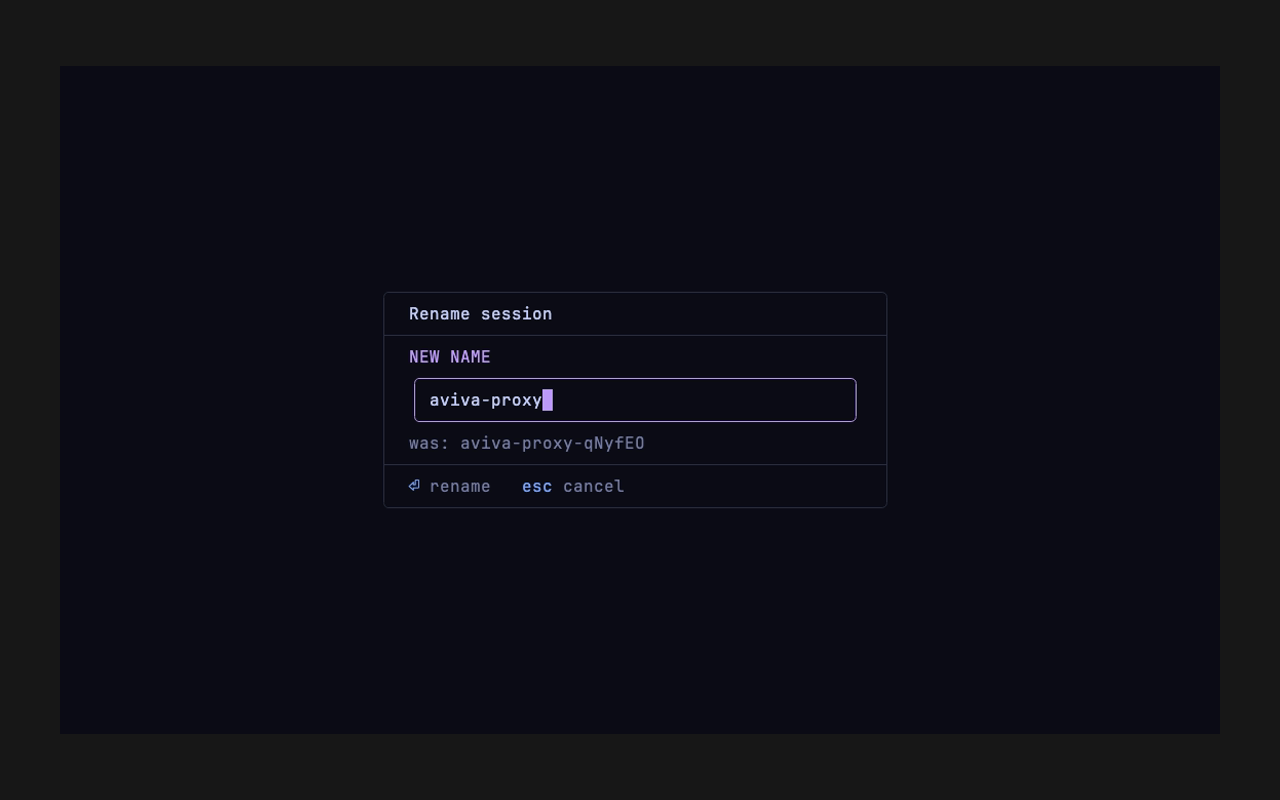
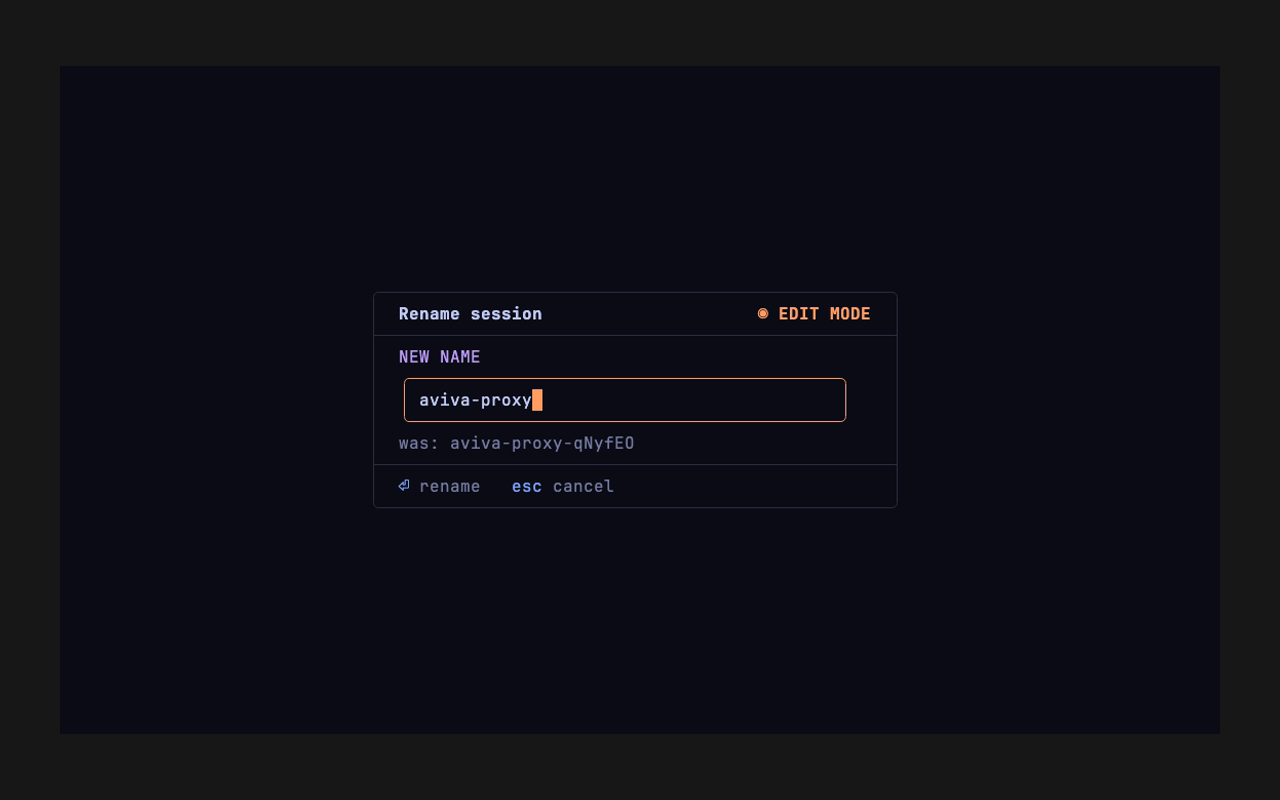
impl(spectrum-tui-design): Tspectrum-tui-design-3-10 — rename modal via shared input-box helper (orange-on-edit)
Route the rename input through the shared renderInputBox helper (3-9) in the
always-editing accent.orange rounded state, and add the orange ◉ EDIT MODE badge
to the header corner — the rename modal now follows the unified §8.4/§13.1 input
grammar, consistent with the edit modal. Removes the bespoke violet box drawing.
DRY-extracted a shared renderHeaderWithBadge from the edit modal (edit-modal render
byte-for-byte unchanged). Render-only: the rename flow logic (updateRenameModal /
renameAndRefresh / textinput) is untouched; parity tests green. Capture verified
against rename-modal-mv.png. Completes Phase 3.

diff --git a/internal/tui/rename_modal_test.go b/internal/tui/rename_modal_test.go
@@ -27,6 +27,32 @@ func newRenameInput(value string) textinput.Model {
 	return ti
 }
 
+// TestRenameModal_ByteExact pins the full ANSI-stripped layout of the §8.4 MV
+// rename modal: the joined panel frame, the `Rename session` title with the
+// right-aligned `◉ EDIT MODE` badge, the NEW NAME label, the rounded (always-orange)
+// input box drawn by the shared renderInputBox helper with the live cursor cell, the
+// `was:` context line, and the `⏎ rename   esc cancel` footer. The colour-role
+// assertions live in the other tests; this oracle guards the STRUCTURE byte-for-byte
+// so a layout regression (a box overrunning the frame, a missing badge, a wrong
+// glyph) fails loudly. The render is deterministic once ANSI is stripped.
+func TestRenameModal_ByteExact(t *testing.T) {
+	got := ansi.Strip(renderRenameModalContent(newRenameInput("aviva-proxy"), "aviva-proxy-qNyfEO", theme.Dark, false))
+	want := "╭──────────────────────────────────────────────────╮\n" +
+		"│  Rename session                     ◉ EDIT MODE  │\n" +
+		"├──────────────────────────────────────────────────┤\n" +
+		"│  NEW NAME                                        │\n" +
+		"│  ╭──────────────────────────────────────────╮    │\n" +
+		"│  │ aviva-proxy                              │    │\n" +
+		"│  ╰──────────────────────────────────────────╯    │\n" +
+		"│  was: aviva-proxy-qNyfEO                         │\n" +
+		"├──────────────────────────────────────────────────┤\n" +
+		"│  ⏎ rename   esc cancel                           │\n" +
+		"╰──────────────────────────────────────────────────╯"
+	if got != want {
+		t.Errorf("render mismatch\n got:\n%s\nwant:\n%s", got, want)
+	}
+}
+
 // TestRenameModal_Header asserts the §8.4 header `Rename session` rendered in
 // text.primary (the non-destructive modal title colour).
 func TestRenameModal_Header(t *testing.T) {
@@ -37,6 +63,60 @@ func TestRenameModal_Header(t *testing.T) {
 		}
 		if seq := tokenFgSeq(t, theme.MV.TextPrimary, mode); !strings.Contains(content, seq) {
 			t.Errorf("[%v] header 'Rename session' must render in text.primary SGR core %q; missing in:\n%s", mode, seq, content)
+		}
+	}
+}
+
+// TestRenameModal_EditModeBadge asserts the always-on `◉ EDIT MODE` badge in the
+// header's right corner, rendered in accent.orange — the rename input is always
+// editing (§13.1), so the badge is always present (unlike the edit modal, which
+// gates it on editMode).
+func TestRenameModal_EditModeBadge(t *testing.T) {
+	for _, mode := range []theme.Mode{theme.Dark, theme.Light} {
+		content := renderRenameModalContent(newRenameInput("aviva-proxy"), "aviva-proxy-qNyfEO", mode, false)
+		if !renameModalContains(content, "◉ EDIT MODE") {
+			t.Errorf("[%v] header must show the `◉ EDIT MODE` badge; got:\n%s", mode, content)
+		}
+		seg := labelSegment(t, content, "EDIT MODE")
+		if seq := tokenFgSeq(t, theme.MV.AccentOrange, mode); !strings.Contains(seg, seq) {
+			t.Errorf("[%v] `◉ EDIT MODE` badge must render in accent.orange SGR core %q; seg=%q", mode, seq, seg)
+		}
+	}
+}
+
+// TestRenameModal_EditModeBadgeRightAligned asserts the `◉ EDIT MODE` badge renders
+// in the header's RIGHT corner (right-aligned), not inline after the title: the
+// badge text must be the trailing glyph run on the header line and a wide flexible
+// spacer must separate it from the `Rename session` title (so it sits in the far
+// corner). Mirrors the edit modal's badge right-align assertion.
+func TestRenameModal_EditModeBadgeRightAligned(t *testing.T) {
+	for _, mode := range []theme.Mode{theme.Dark, theme.Light} {
+		content := renderRenameModalContent(newRenameInput("aviva-proxy"), "aviva-proxy-qNyfEO", mode, false)
+		var headerLine string
+		for _, line := range strings.Split(ansi.Strip(content), "\n") {
+			if strings.Contains(line, "Rename session") {
+				headerLine = line
+				break
+			}
+		}
+		if headerLine == "" {
+			t.Fatalf("[%v] header line not found; content:\n%s", mode, ansi.Strip(content))
+		}
+		trimmed := strings.TrimRight(headerLine, " │")
+		if !strings.HasSuffix(trimmed, "◉ EDIT MODE") {
+			t.Errorf("[%v] `◉ EDIT MODE` must be right-aligned (trailing) in the header; got line:\n%q", mode, headerLine)
+		}
+		titleIdx := strings.Index(headerLine, "Rename session")
+		badgeIdx := strings.Index(headerLine, "◉ EDIT MODE")
+		if titleIdx < 0 || badgeIdx < 0 || badgeIdx <= titleIdx {
+			t.Fatalf("[%v] header must read title then far-right badge; got:\n%q", mode, headerLine)
+		}
+		gap := badgeIdx - (titleIdx + len("Rename session"))
+		if gap < 10 {
+			t.Errorf("[%v] badge must be far-right with a wide flexible gap after the title (gap=%d); got:\n%q", mode, gap, headerLine)
+		}
+		if badgeIdx < len(headerLine)/2 {
+			t.Errorf("[%v] badge must sit in the right half of the header (corner), idx=%d lineLen=%d; got:\n%q", mode, badgeIdx, len(headerLine), headerLine)
 		}
 	}
 }
@@ -70,28 +150,30 @@ func TestRenameModal_InputValue(t *testing.T) {
 	}
 }
 
-// TestRenameModal_VioletBlockCursor asserts the §13.1 input cursor is a violet
-// block: the cursor renders Reverse over an accent.violet foreground (so the block
-// fills violet), making the input the live editing element.
-func TestRenameModal_VioletBlockCursor(t *testing.T) {
+// TestRenameModal_OrangeBlockCursor asserts the §13.1 input cursor is an orange
+// block: the input is always editing, so the cursor renders Reverse over an
+// accent.orange foreground (so the block fills orange), making the input the live
+// editing element.
+func TestRenameModal_OrangeBlockCursor(t *testing.T) {
 	for _, mode := range []theme.Mode{theme.Dark, theme.Light} {
 		content := renderRenameModalContent(newRenameInput("aviva-proxy"), "aviva-proxy-qNyfEO", mode, false)
 		// The bubbles cursor renders its block via SGR 7 (reverse) over the cursor
-		// colour foreground — assert both the reverse attr and the violet hue are
-		// present so the block cursor is violet, not the default.
+		// colour foreground — assert both the reverse attr and the orange hue are
+		// present so the block cursor is orange, not the default.
 		if !strings.Contains(content, "\x1b[7m") && !strings.Contains(content, ";7m") && !strings.Contains(content, "[7;") {
 			t.Errorf("[%v] input cursor must be a reverse block (SGR 7); got:\n%s", mode, content)
 		}
-		if seq := tokenFgSeq(t, theme.MV.AccentViolet, mode); !strings.Contains(content, seq) {
-			t.Errorf("[%v] block cursor must carry accent.violet SGR core %q; missing in:\n%s", mode, seq, content)
+		if seq := tokenFgSeq(t, theme.MV.AccentOrange, mode); !strings.Contains(content, seq) {
+			t.Errorf("[%v] block cursor must carry accent.orange SGR core %q; missing in:\n%s", mode, seq, content)
 		}
 	}
 }
 
-// TestRenameModal_VioletInputBoxOutline asserts the input value sits inside a
-// border-defined box whose outline is accent.violet (§8.1: transparent fill, no
-// recessed-input token — the outline is the only treatment).
-func TestRenameModal_VioletInputBoxOutline(t *testing.T) {
+// TestRenameModal_OrangeInputBoxOutline asserts the input value sits inside a
+// border-defined box whose outline is accent.orange — the always-editing state of
+// the shared renderInputBox helper (§13.1: transparent fill, no recessed-input
+// token — the outline is the only treatment).
+func TestRenameModal_OrangeInputBoxOutline(t *testing.T) {
 	for _, mode := range []theme.Mode{theme.Dark, theme.Light} {
 		content := renderRenameModalContent(newRenameInput("aviva-proxy"), "aviva-proxy-qNyfEO", mode, false)
 		// The input box draws its own rounded outline rows (corners + sides), distinct
@@ -119,9 +201,9 @@ func TestRenameModal_VioletInputBoxOutline(t *testing.T) {
 		if !strings.ContainsAny(bottom, "╰─╯") {
 			t.Errorf("[%v] row below the input value must be the box bottom edge (rounded outline); got %q", mode, bottom)
 		}
-		// The box outline is accent.violet.
-		if seq := tokenFgSeq(t, theme.MV.AccentViolet, mode); !strings.Contains(content, seq) {
-			t.Errorf("[%v] input box outline must render in accent.violet SGR core %q; missing in:\n%s", mode, seq, content)
+		// The box outline is accent.orange (the editing state of the shared helper).
+		if seq := tokenFgSeq(t, theme.MV.AccentOrange, mode); !strings.Contains(content, seq) {
+			t.Errorf("[%v] input box outline must render in accent.orange SGR core %q; missing in:\n%s", mode, seq, content)
 		}
 	}
 }
@@ -240,8 +322,9 @@ func TestRenameModal_BodyLayout(t *testing.T) {
 // is painted — every state reads from structure, not colour.
 func TestRenameModal_Colourless(t *testing.T) {
 	content := renderRenameModalContent(newRenameInput("aviva-proxy"), "aviva-proxy-qNyfEO", theme.Dark, true)
-	// The copy + structure survive.
-	for _, frag := range []string{"Rename session", "NEW NAME", "aviva-proxy", "was: aviva-proxy-qNyfEO", "⏎ rename", "esc cancel"} {
+	// The copy + structure survive (the `◉ EDIT MODE` badge text is part of the
+	// structural signal — state never colour-only, §2.2).
+	for _, frag := range []string{"Rename session", "◉ EDIT MODE", "NEW NAME", "aviva-proxy", "was: aviva-proxy-qNyfEO", "⏎ rename", "esc cancel"} {
 		if !renameModalContains(content, frag) {
 			t.Errorf("colourless rename modal must keep %q; got:\n%s", frag, content)
 		}
@@ -250,9 +333,9 @@ func TestRenameModal_Colourless(t *testing.T) {
 	if !strings.ContainsAny(content, "╭╮╰╯├┤") {
 		t.Errorf("colourless rename modal must keep the frame/box glyphs; got:\n%s", content)
 	}
-	// No role hues painted: not accent.violet, accent.blue, text.detail, or
-	// text.primary.
-	for _, tok := range []theme.Token{theme.MV.AccentViolet, theme.MV.AccentBlue, theme.MV.TextDetail, theme.MV.TextPrimary, theme.MV.BorderSeparator} {
+	// No role hues painted: not accent.orange, accent.violet, accent.blue,
+	// text.detail, or text.primary.
+	for _, tok := range []theme.Token{theme.MV.AccentOrange, theme.MV.AccentViolet, theme.MV.AccentBlue, theme.MV.TextDetail, theme.MV.TextPrimary, theme.MV.BorderSeparator} {
 		if seq := tokenFgSeq(t, tok, theme.Dark); strings.Contains(content, seq) {
 			t.Errorf("colourless rename modal must NOT paint the %s hue %q", tok.Name, seq)
 		}

diff --git a/internal/tui/rename_modal.go b/internal/tui/rename_modal.go
@@ -1,8 +1,6 @@
 package tui
 
 import (
-	"strings"
-
 	"charm.land/bubbles/v2/textinput"
 	"charm.land/lipgloss/v2"
 	"github.com/charmbracelet/x/ansi"
@@ -16,12 +14,15 @@ import (
 // (header / body / footer) separated by two joined ├───┤ dividers, all in
 // border.separator.
 //
-// The body's input is a SEPARATE nested element: a thin rounded box whose outline is
-// accent.violet (the §13.1 focused colour — this single input is always focused) over
-// a TRANSPARENT interior (§8.1, no fill). The value renders in text.primary with a
-// violet block cursor; the violet outline + cursor are the focus signal, distinct from
-// the panel's border.separator frame. (No fill: a flush fill can't coexist with a thin
-// rounded outline in a terminal — see renameModalInputBoxRows.)
+// The body's input is a SEPARATE nested element drawn by the shared renderInputBox
+// helper (§13.1) in its ALWAYS-EDITING variant: a thin rounded box whose outline is
+// accent.orange over a TRANSPARENT interior (§8.1, no fill). The rename input is
+// always focused AND always editing — there is no navigate state — so it carries the
+// orange editing treatment (border + live block cursor) and the header shows the
+// `◉ EDIT MODE` badge. The value renders in text.primary with an orange block cursor;
+// the orange outline + cursor + badge are the editing signal, distinct from the
+// panel's border.separator frame. (No fill: a flush fill can't coexist with a thin
+// rounded outline in a terminal — see renderInputBox.)
 
 const (
 	// renameTitle is the header title text (text.primary), the §8.4 `Rename session`.
@@ -55,17 +56,17 @@ const (
 // renderRenameModalContent composes the §8.4 rename-session modal for the given
 // input + old name. Three compartments drawn by the shared joined panel:
 //
-//	header:  Rename session              (text.primary)
+//	header:  Rename session              ◉ EDIT MODE   (title text.primary, badge accent.orange right-aligned)
 //	body:    NEW NAME                     (accent.violet field label)
-//	         ╭──────────────────────╮     (violet input-box outline)
-//	         │ <value>▌             │     (value text.primary, violet block cursor)
+//	         ╭──────────────────────╮     (orange input-box outline)
+//	         │ <value>▌             │     (value text.primary, orange block cursor)
 //	         ╰──────────────────────╯
 //	         was: <old name>             (text.detail, truncated to fit)
 //	footer:  ⏎ rename   esc cancel        (glyphs accent.blue, labels text.detail)
 //
 // Vertical spacing is terminal-native FLUSH (the help/kill modal convention): every
 // body row is flush to its dividers; the input box's three rows are its own outline,
-// not blank padding. The input is styled here (value text.primary, violet block
+// not blank padding. The input is styled here (value text.primary, orange block
 // cursor) — its input SEMANTICS are untouched.
 func renderRenameModalContent(input textinput.Model, oldName string, mode theme.Mode, colourless bool) string {
 	header := []string{renameModalHeaderRow(mode, colourless)}
@@ -74,10 +75,24 @@ func renderRenameModalContent(input textinput.Model, oldName string, mode theme.
 	return renderJoinedPanel([][]string{header, body, footer}, mode, colourless)
 }
 
-// renameModalHeaderRow renders `Rename session` in text.primary (the
-// non-destructive modal-title colour — §8.1).
+// renameModalHeaderRow renders `Rename session` (text.primary, the non-destructive
+// modal-title colour — §8.1) left-aligned, with the always-on `◉ EDIT MODE` badge
+// (accent.orange) right-aligned in the far corner — the rename input is always
+// editing, so the badge is always shown (via the shared renderHeaderWithBadge,
+// matching the edit modal's right-align technique). The header is pinned to the
+// panel content width so the badge sits in the panel's right corner.
 func renameModalHeaderRow(mode theme.Mode, colourless bool) string {
-	return headerStyle(theme.MV.TextPrimary, mode, colourless).Render(renameTitle)
+	title := headerStyle(theme.MV.TextPrimary, mode, colourless).Bold(true).Render(renameTitle)
+	return renderHeaderWithBadge(title, renamePanelContentWidth(), true, mode, colourless)
+}
+
+// renamePanelContentWidth returns the rename modal's panel content width — the span
+// the header row is padded to so the `◉ EDIT MODE` badge right-aligns to the panel's
+// content edge. The input box (renameInputInnerWidth + its two side borders) is the
+// widest body element and anchors the panel width (the header title + badge and the
+// footer are both narrower), so the header pinned to this width matches the box edge.
+func renamePanelContentWidth() int {
+	return renameInputInnerWidth + 2
 }
 
 // renameModalBodyRows builds the body compartment rows: the NEW NAME label, the
@@ -96,42 +111,31 @@ func renameModalLabelRow(mode theme.Mode, colourless bool) string {
 	return headerStyle(theme.MV.AccentViolet, mode, colourless).Render(renameFieldLabel)
 }
 
-// renameModalInputBoxRows renders the border-defined input box: a thin ROUNDED
-// outline in accent.violet over a TRANSPARENT interior — no fill (§8.1). The value
-// renders in text.primary with a violet block cursor; the violet outline + cursor are
-// the focus signal (§13.1 — a single-input modal's input is always focused, so the
-// outline is always accent.violet; an unfocused field would be border.separator grey).
-//
-// No fill, by design: a flush fill cannot coexist with a thin rounded outline in a
-// terminal — a border glyph owns a full cell with one background, so any fill either
-// leaves a half-cell gap inside the line or bleeds half a cell past it (the rounded
-// corner has the same problem). Focus is therefore carried by the outline COLOUR, not
-// a fill — consistent with the edit modal's fields (the Paper mock's recessed input
-// fill was dropped for this reason; see the spec §13.1 amendment + the dropped
-// bg.selection-dimmed token).
+// renameModalInputBoxRows renders the border-defined input box through the SHARED
+// renderInputBox helper in its always-EDITING variant: a thin ROUNDED outline in
+// accent.orange over a TRANSPARENT interior — no fill (§8.1). The value renders in
+// text.primary with an orange block cursor; the orange outline + cursor are the
+// editing signal (§13.1 — the rename input is always editing, so the outline is
+// always accent.orange and the header carries the `◉ EDIT MODE` badge). The
+// textinput's own View (with its live cursor) is the content; the box border is the
+// shared helper's, not a bespoke one.
 //
 // Each rendered line is one body row for renderJoinedPanel (which expects single-line
 // rows). Under NO_COLOR the hues drop to the native fg and the box structure survives.
 func renameModalInputBoxRows(input textinput.Model, mode theme.Mode, colourless bool) []string {
 	value := renameInputView(input, mode, colourless)
-	style := lipgloss.NewStyle().
-		Border(lipgloss.RoundedBorder()).
-		Padding(0, 1).
-		Width(renameInputInnerWidth)
-	if !colourless {
-		style = style.BorderForeground(theme.MV.AccentViolet.ColorFor(mode))
-	}
-	return strings.Split(style.Render(value), "\n")
+	return renderInputBox(value, inputBoxEditing, true, renameInputInnerWidth, mode, colourless)
 }
 
-// renameInputView styles the textinput to the MV palette (value text.primary, violet
+// renameInputView styles the textinput to the MV palette (value text.primary, orange
 // block cursor, NO fill) and returns its rendered View. The input's SEMANTICS are
 // untouched — only its Styles + Prompt change. The inline prompt is cleared so the
 // value renders alone inside the box (the §8.4 `NEW NAME` label carries the field
 // name, so a textinput prompt would double up). Cursor blink is disabled so the
-// captured frame is deterministic (the cursor is always the solid violet block, never
-// a blinked-off gap). Under the NO_COLOR carve-out every hue drops: the value renders
-// on the native fg and the cursor falls back to a bare reverse block.
+// captured frame is deterministic (the cursor is always the solid orange block, never
+// a blinked-off gap). The cursor is accent.orange to match the box's editing state
+// (the §13.1 editing colour). Under the NO_COLOR carve-out every hue drops: the value
+// renders on the native fg and the cursor falls back to a bare reverse block.
 func renameInputView(input textinput.Model, mode theme.Mode, colourless bool) string {
 	input.Prompt = ""
 	styles := input.Styles()
@@ -143,7 +147,7 @@ func renameInputView(input textinput.Model, mode theme.Mode, colourless bool) st
 		return input.View()
 	}
 	styles.Focused.Text = lipgloss.NewStyle().Foreground(theme.MV.TextPrimary.ColorFor(mode))
-	styles.Cursor.Color = theme.MV.AccentViolet.ColorFor(mode)
+	styles.Cursor.Color = theme.MV.AccentOrange.ColorFor(mode)
 	styles.Cursor.Blink = false
 	input.SetStyles(styles)
 	return input.View()

diff --git a/internal/tui/edit_modal.go b/internal/tui/edit_modal.go
@@ -265,21 +265,31 @@ func (m Model) editModalHeaderRow(mode theme.Mode, colourless bool) string {
 	prefix := headerStyle(theme.MV.TextPrimary, mode, colourless).Bold(true).Render(editHeaderPrefix)
 	name := headerStyle(theme.MV.TextDetail, mode, colourless).Render(m.editProject.Name)
 	left := lipgloss.JoinHorizontal(lipgloss.Top, prefix, name)
-	leftWidth := lipgloss.Width(left)
+	return renderHeaderWithBadge(left, m.editPanelContentWidth(), m.editMode == editModeEdit, mode, colourless)
+}
 
-	width := m.editPanelContentWidth()
+// renderHeaderWithBadge lays out a modal header as a FIXED full-content-width row:
+// the pre-rendered left title segment left-aligned, a flexible canvas spacer, then
+// the `◉ EDIT MODE` badge (accent.orange, bold) RIGHT-aligned in the far corner.
+// When showBadge is false the badge's slot is rendered as a same-width blank, so the
+// header (and therefore the whole panel) is byte-for-byte the SAME width whether the
+// badge shows or not. Shared by the edit modal (badge gated on edit mode) and the
+// rename modal (always editing → badge always shown). The right-align is the §13.1
+// fixed-content-width row + flexible-spacer technique.
+func renderHeaderWithBadge(left string, contentWidth int, showBadge bool, mode theme.Mode, colourless bool) string {
+	leftWidth := lipgloss.Width(left)
 	badgeWidth := lipgloss.Width(editModeIndicator)
-	spacerWidth := width - leftWidth - badgeWidth
+	spacerWidth := contentWidth - leftWidth - badgeWidth
 	if spacerWidth < 0 {
 		spacerWidth = 0
 	}
 	spacer := headerCanvasBg(mode, colourless).Render(strings.Repeat(" ", spacerWidth))
 
 	var badge string
-	if m.editMode == editModeEdit {
+	if showBadge {
 		badge = headerStyle(theme.MV.AccentOrange, mode, colourless).Bold(true).Render(editModeIndicator)
 	} else {
-		// Reserve the badge's slot as blank so the navigate header is the same width.
+		// Reserve the badge's slot as blank so the header is the same width either way.
 		badge = headerCanvasBg(mode, colourless).Render(strings.Repeat(" ", badgeWidth))
 	}
 	return lipgloss.JoinHorizontal(lipgloss.Top, left, spacer, badge)

diff --git a/internal/tui/colour_literal_guard_test.go b/internal/tui/colour_literal_guard_test.go
@@ -29,6 +29,7 @@ var centralisedColourSites = []string{
 	"filtering_no_matches.go",
 	"help_modal.go",
 	"edit_modal.go",
+	"rename_modal.go",
 }
 
 // TestNoRawColourLiteralAtCentralisedSites parses each re-pointed file and fails